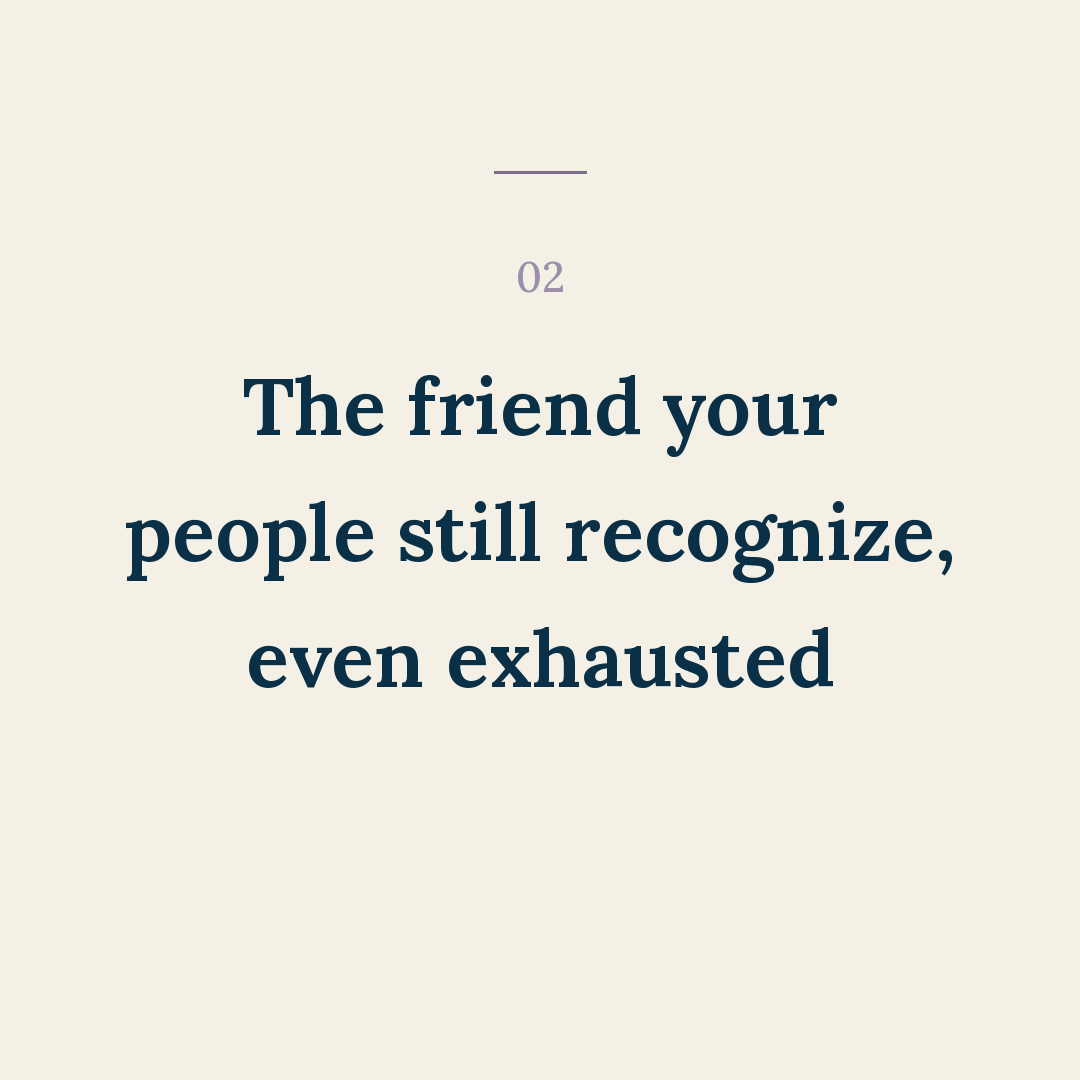
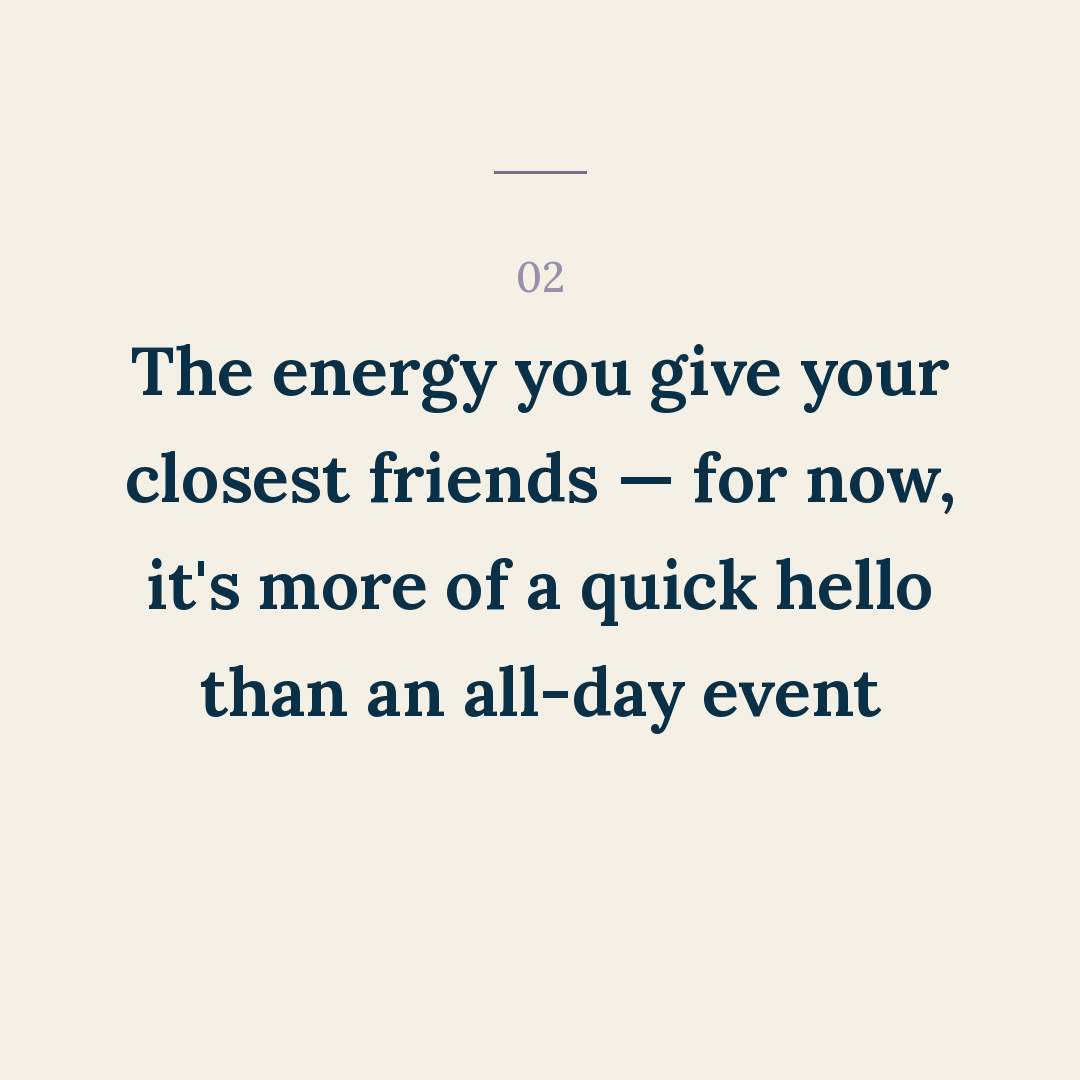
Add 56-parts-of-you-not-gone (56 - Parts Of You Not Gone)

Changed region(s): [[0.1222, 0.3056, 0.8861, 0.6722], [0.5806, 0.4278, 0.6111, 0.4583]]

diff --git a/posts/56-parts-of-you-not-gone/slides.md b/posts/56-parts-of-you-not-gone/slides.md
@@ -6,11 +6,11 @@ Format: carousel · bg cream · Warmth · hook #64
 The parts of you that aren't gone — just quiet since your newborn arrived…
 
 ## Items
-01  Your sense of humor — still sharp, just saved for 2am now
-02  The friend your people still recognize, even exhausted
-03  Opinions you still have, just not enough hours to say them
-04  The person your newborn hasn't met yet, and will
-05  All of it, coming back louder the second the fog lifts
+01  Your sense of humor — you're still funny, but right now it looks like silly faces and sounds
+02  The energy you give your closest friends — for now, it's more of a quick hello than an all-day event
+03  Hobbies you once enjoyed — but one day you'll get to teach your little best friend why you love them
+04  Your newborn hasn't even met you as your whole person yet, but they will
+05  All of it comes back louder the second the fog lifts and the schedule settles
 
 ## Closer (follow)
 Follow for reminders that you're still in there.
@@ -19,4 +19,21 @@ REVISED 2026-08-16 per Ben's review: item set rewritten for clarity — his note
 items read as confusing and didn't clearly tie to the "quiet, not gone" premise. Each item now states
 plainly what's still there, just quieter, tightening the connection to the cover.
 
-Render with render_cover / render_items_for_post / render_follow, weight 650, bg BG_CREAM.
+REVISED AGAIN 2026-08-16 (second review pass) — **all five items are BEN'S OWN WORDS**, taken verbatim
+from his spreadsheet cells. Only two mechanical changes were made: his " - " separators became the
+house em dash " — " (item 1 already used one), and curly apostrophes were straightened to match the
+rest of the corpus. **No wording was touched. Do not "tighten" these.**
+
+What his rewrite did, worth learning from: my version named each thing abstractly and left the reader
+to picture it (*"opinions you still have, just not enough hours to say them"*). His names the thing
+AND shows what it looks like right now (*"hobbies you once enjoyed — but one day you'll get to teach
+your little best friend why you love them"*). Every item now carries a small forward-looking turn
+inside it, which is what the cover's "not gone, just quiet" promise was actually asking for.
+
+⚠ **RENDERED WITH `max_lines=4`.** His items run 72–100 characters, roughly double the previous set.
+At the default 3-line cap the shared font drops to **50px**; at `max_lines=4` it holds at **68px**.
+This is the sanctioned per-post override described in render-spec.md — it applies to the whole post,
+not one outlier fact, and the default is NOT raised globally. If these items are ever shortened,
+drop back to the default.
+
+Render with render_cover / render_items_for_post(max_lines=4) / render_follow, weight 650, bg BG_CREAM.
